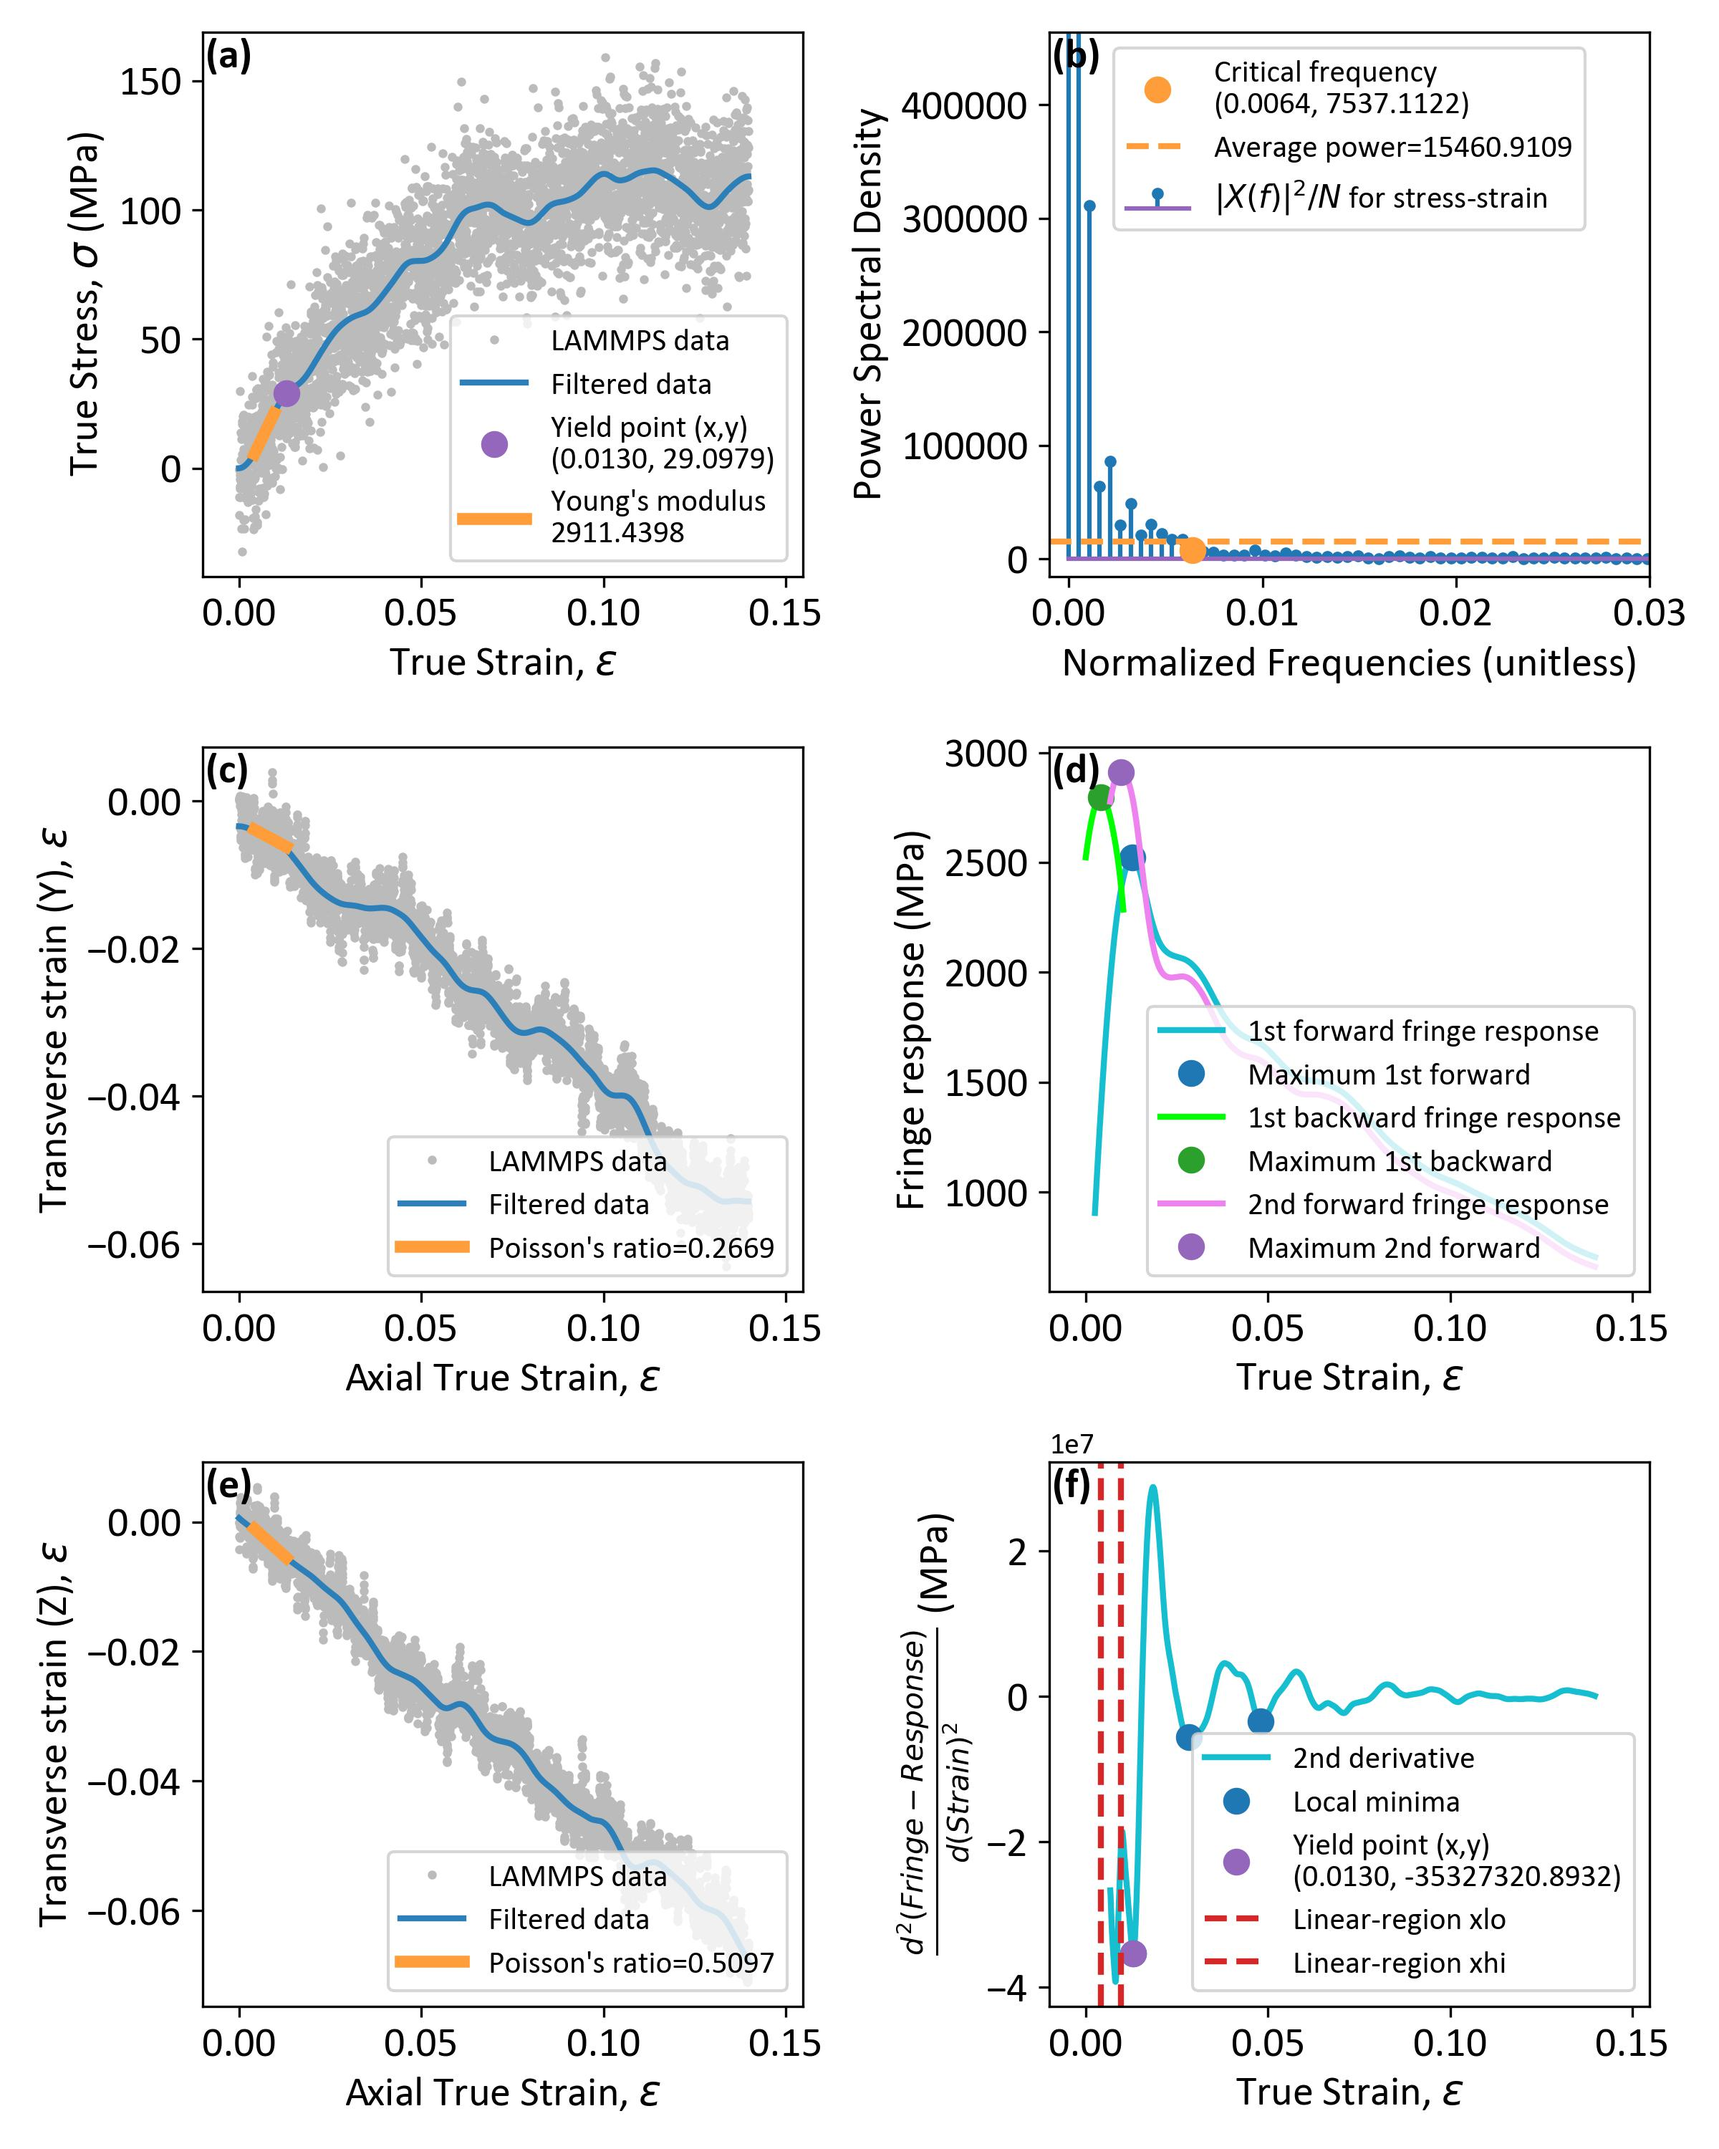
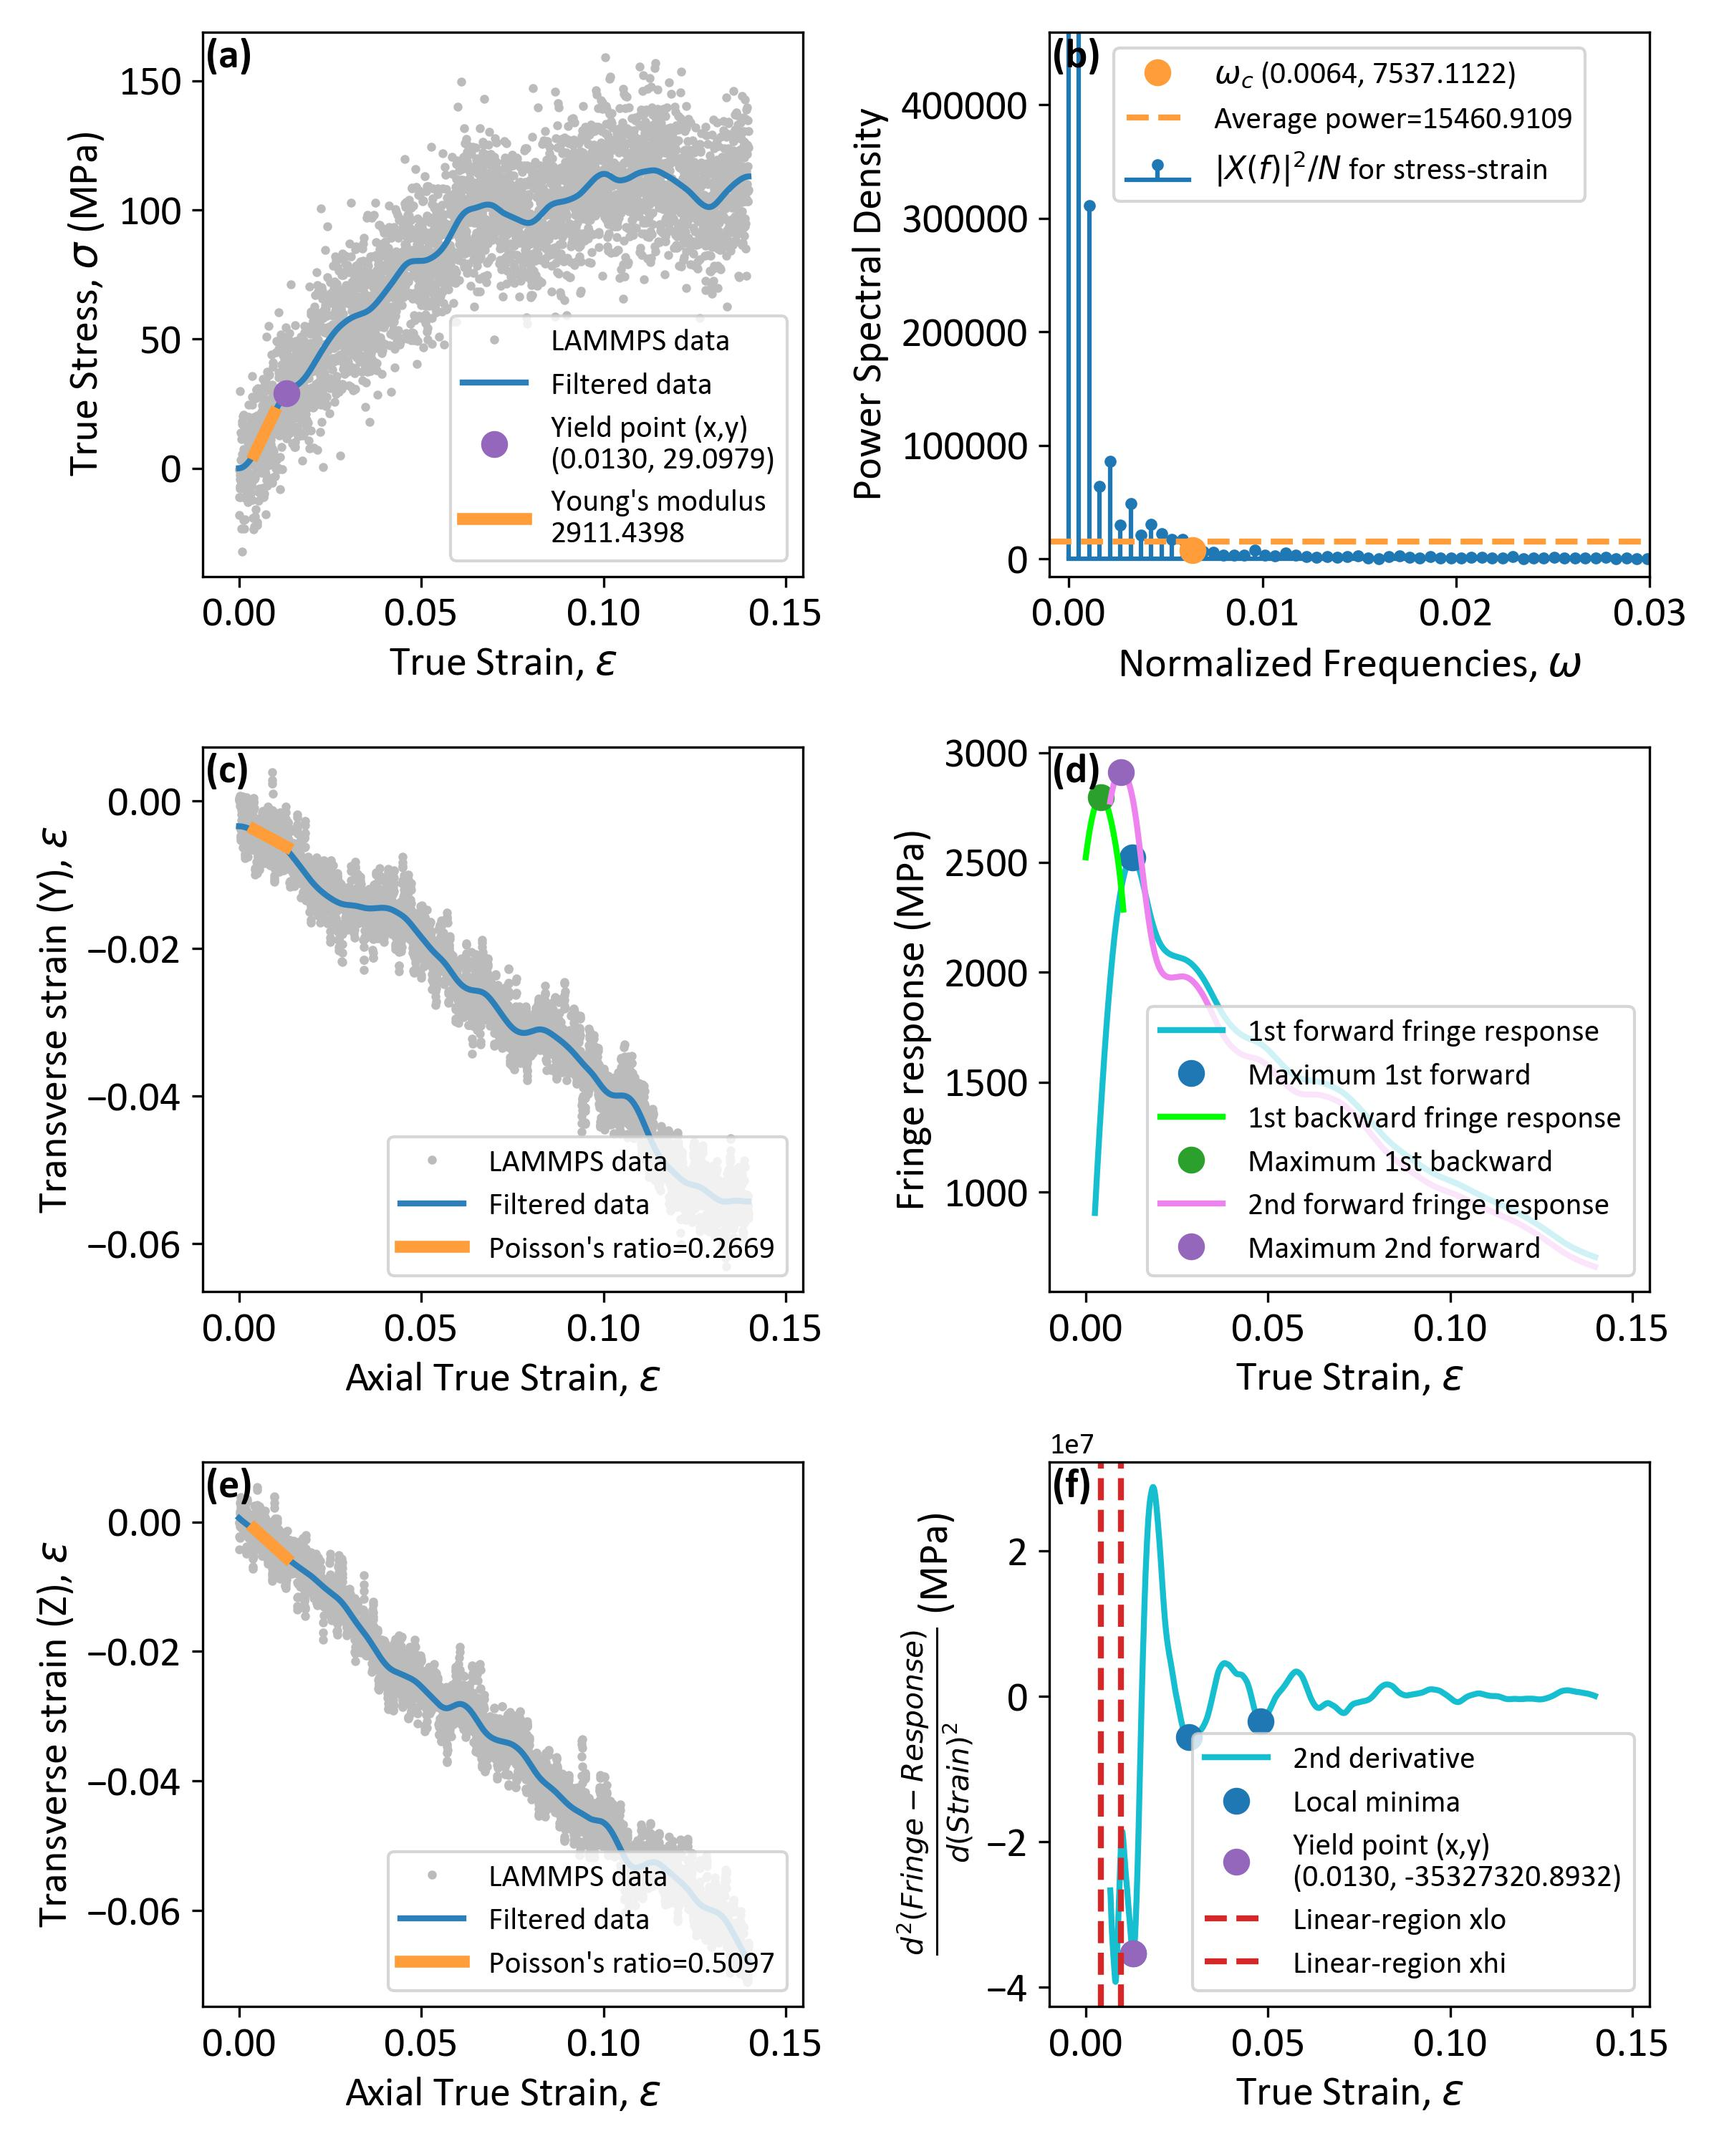
Adding Butterworth code

Changed region(s): [[0.6562, 0.031, 0.9062, 0.124], [0.7188, 0.279, 0.7812, 0.31], [0.6562, 0.279, 0.6875, 0.31]]

diff --git a/PSD_vs_ESD.py b/PSD_vs_ESD.py
@@ -365,11 +365,11 @@ if __name__ == "__main__":
     ax3.text(*label_rel_pos, '(c)', transform=ax3.transAxes, fontsize=fs, fontweight='bold', va='top', ha='left')
     
     if str(wn).startswith('op'):
-        ax2.stem(wns_stress, psd_stress, linefmt='tab:blue', markerfmt='.', label='$|X(f)|^2/N$ for stress-strain')
-        ax2.plot(wn_stress_psd, power_stress_psd, 'o', ms=8, color='#ff9d3aff', label='Critical frequency\n({:.4f}, {:.4f})'.format(wn_stress_psd, power_stress_psd))
+        ax2.stem(wns_stress, psd_stress, linefmt='tab:blue', basefmt='tab:blue', markerfmt='.', label='$|X(f)|^2/N$')
+        ax2.plot(wn_stress_psd, power_stress_psd, 'o', ms=8, color='#ff9d3aff', label='{}$_c$ ({:.3f}, {:.3f})'.format(r'$\omega$', wn_stress_psd, power_stress_psd))
         ax2.axhline(mean_stress_psd, color='#ff9d3aff', ls='--', lw=2, label='Average power={:.4f}'.format(mean_stress_psd))
-        ax2.legend(loc='upper center', bbox_to_anchor=(0.5, 1.0), fancybox=True, ncol=1, fontsize=0.75*fs)
-        ax2.set_xlabel('Normalized Frequencies (unitless)', fontsize=fs)
+        ax2.legend(loc='upper right', bbox_to_anchor=(1.0, 1.0), fancybox=True, ncol=1, fontsize=0.75*fs)
+        ax2.set_xlabel('Normalized Frequencies, {}'.format(r'$\omega$'), fontsize=fs)
         ax2.set_ylabel('Power Spectral Density (PSD)', fontsize=fs)
         ax2.tick_params(axis='both', which='major', labelsize=fs)
         ax2.set_xlim((-0.001, 0.03)) # Comment/uncomment for xlimits
@@ -377,11 +377,11 @@ if __name__ == "__main__":
         ax2.text(*label_rel_pos, '(b)', transform=ax2.transAxes, fontsize=fs, fontweight='bold', va='top', ha='left')
         
 
-        ax4.stem(wns_stress, esd_stress, linefmt='tab:blue', markerfmt='.', label='$|X(f)|^2/2T$ for stress-strain')
-        ax4.plot(wn_stress_esd, power_stress_esd, 'o', ms=8, color='#ff9d3aff', label='Critical frequency\n({:.4f}, {:.4f})'.format(wn_stress_esd, power_stress_esd))
-        ax4.axhline(mean_stress_esd, color='#ff9d3aff', ls='--', lw=2, label='Average energy={:.4f}'.format(mean_stress_esd))
-        ax4.legend(loc='upper center', bbox_to_anchor=(0.5, 1.0), fancybox=True, ncol=1, fontsize=0.75*fs)
-        ax4.set_xlabel('Normalized Frequencies (unitless)', fontsize=fs)
+        ax4.stem(wns_stress, esd_stress, linefmt='tab:blue', basefmt='tab:blue', markerfmt='.', label='$|X(f)|^2/2T$')
+        ax4.plot(wn_stress_esd, power_stress_esd, 'o', ms=8, color='#ff9d3aff', label='{}$_c$ ({:.3f}, {:.3f})'.format(r'$\omega$', wn_stress_esd, power_stress_esd))
+        ax4.axhline(mean_stress_esd, color='#ff9d3aff', ls='--', lw=2, label='Average energy={:.3f}'.format(mean_stress_esd))
+        ax4.legend(loc='upper right', bbox_to_anchor=(1.0, 1.0), fancybox=True, ncol=1, fontsize=0.75*fs)
+        ax4.set_xlabel('Normalized Frequencies, {}'.format(r'$\omega$'), fontsize=fs)
         ax4.set_ylabel('Energy Spectral Density (ESD)', fontsize=fs)
         ax4.tick_params(axis='both', which='major', labelsize=fs)
         ax4.set_xlim((-0.001, 0.03)) # Comment/uncomment for xlimits

diff --git a/example2.py b/example2.py
@@ -389,11 +389,11 @@ if __name__ == "__main__":
     ax5.text(*label_rel_pos, '(e)', transform=ax5.transAxes, fontsize=fs, fontweight='bold', va='top', ha='left')
     
     if str(wn).startswith('op'):
-        ax2.stem(wns_stress, psd_stress, linefmt='tab:blue', markerfmt='.', label='$|X(f)|^2/N$ for stress-strain')
-        ax2.plot(wn_stress, power_stress, 'o', ms=8, color='#ff9d3aff', label='Critical frequency\n({:.4f}, {:.4f})'.format(wn_stress, power_stress))
+        ax2.stem(wns_stress, psd_stress, linefmt='tab:blue', basefmt='tab:blue', markerfmt='.', label='$|X(f)|^2/N$ for stress-strain')
+        ax2.plot(wn_stress, power_stress, 'o', ms=8, color='#ff9d3aff', label='{}$_c$ ({:.4f}, {:.4f})'.format(r'$\omega$', wn_stress, power_stress))
         ax2.axhline(mean_stress_psd, color='#ff9d3aff', ls='--', lw=2, label='Average power={:.4f}'.format(mean_stress_psd))
         ax2.legend(loc='upper center', bbox_to_anchor=(0.5, 1.0), fancybox=True, ncol=1, fontsize=0.75*fs)
-        ax2.set_xlabel('Normalized Frequencies (unitless)', fontsize=fs)
+        ax2.set_xlabel('Normalized Frequencies, {}'.format(r'$\omega$'), fontsize=fs)
         ax2.set_ylabel('Power Spectral Density', fontsize=fs)
         ax2.tick_params(axis='both', which='major', labelsize=fs)
         ax2.set_xlim((-0.001, 0.03)) # Comment/uncomment for xlimits

diff --git a/example3.py b/example3.py
@@ -390,11 +390,11 @@ if __name__ == "__main__":
     ax5.text(*label_rel_pos, '(e)', transform=ax5.transAxes, fontsize=fs, fontweight='bold', va='top', ha='left')
     
     if str(wn).startswith('op'):
-        ax2.stem(wns_stress, psd_stress, linefmt='tab:blue', markerfmt='.', label='$|X(f)|^2/N$ for stress-strain')
-        ax2.plot(wn_stress, power_stress, 'o', ms=8, color='#ff9d3aff', label='Critical frequency\n({:.4f}, {:.4f})'.format(wn_stress, power_stress))
+        ax2.stem(wns_stress, psd_stress, linefmt='tab:blue', basefmt='tab:blue', markerfmt='.', label='$|X(f)|^2/N$ for stress-strain')
+        ax2.plot(wn_stress, power_stress, 'o', ms=8, color='#ff9d3aff', label='{}$_c$ ({:.4f}, {:.4f})'.format(r'$\omega$', wn_stress, power_stress))
         ax2.axhline(mean_stress_psd, color='#ff9d3aff', ls='--', lw=2, label='Average power={:.4f}'.format(mean_stress_psd))
         ax2.legend(loc='upper center', bbox_to_anchor=(0.5, 1.0), fancybox=True, ncol=1, fontsize=0.75*fs)
-        ax2.set_xlabel('Normalized Frequencies (unitless)', fontsize=fs)
+        ax2.set_xlabel('Normalized Frequencies, {}'.format(r'$\omega$'), fontsize=fs)
         ax2.set_ylabel('Power Spectral Density', fontsize=fs)
         ax2.tick_params(axis='both', which='major', labelsize=fs)
         ax2.set_xlim((-0.001, 0.03)) # Comment/uncomment for xlimits

diff --git a/example4.py b/example4.py
@@ -390,11 +390,11 @@ if __name__ == "__main__":
     ax5.text(*label_rel_pos, '(e)', transform=ax5.transAxes, fontsize=fs, fontweight='bold', va='top', ha='left')
     
     if str(wn).startswith('op'):
-        ax2.stem(wns_stress, psd_stress, linefmt='tab:blue', markerfmt='.', label='$|X(f)|^2/N$ for stress-strain')
-        ax2.plot(wn_stress, power_stress, 'o', ms=8, color='#ff9d3aff', label='Critical frequency\n({:.4f}, {:.4f})'.format(wn_stress, power_stress))
+        ax2.stem(wns_stress, psd_stress, linefmt='tab:blue', basefmt='tab:blue', markerfmt='.', label='$|X(f)|^2/N$ for stress-strain')
+        ax2.plot(wn_stress, power_stress, 'o', ms=8, color='#ff9d3aff', label='{}$_c$ ({:.4f}, {:.4f})'.format(r'$\omega$', wn_stress, power_stress))
         ax2.axhline(mean_stress_psd, color='#ff9d3aff', ls='--', lw=2, label='Average power={:.4f}'.format(mean_stress_psd))
         ax2.legend(loc='upper center', bbox_to_anchor=(0.5, 1.0), fancybox=True, ncol=1, fontsize=0.75*fs)
-        ax2.set_xlabel('Normalized Frequencies (unitless)', fontsize=fs)
+        ax2.set_xlabel('Normalized Frequencies, {}'.format(r'$\omega$'), fontsize=fs)
         ax2.set_ylabel('Power Spectral Density', fontsize=fs)
         ax2.tick_params(axis='both', which='major', labelsize=fs)
         ax2.set_xlim((-0.001, 0.03)) # Comment/uncomment for xlimits

diff --git a/example1.py b/example1.py
@@ -389,11 +389,11 @@ if __name__ == "__main__":
     ax5.text(*label_rel_pos, '(e)', transform=ax5.transAxes, fontsize=fs, fontweight='bold', va='top', ha='left')
     
     if str(wn).startswith('op'):
-        ax2.stem(wns_stress, psd_stress, linefmt='tab:blue', markerfmt='.', label='$|X(f)|^2/N$ for stress-strain')
+        ax2.stem(wns_stress, psd_stress, linefmt='tab:blue', basefmt='tab:blue', markerfmt='.', label='$|X(f)|^2/N$ for stress-strain')
         ax2.plot(wn_stress, power_stress, 'o', ms=8, color='#ff9d3aff', label='{}$_c$ ({:.4f}, {:.4f})'.format(r'$\omega$', wn_stress, power_stress))
         ax2.axhline(mean_stress_psd, color='#ff9d3aff', ls='--', lw=2, label='Average power={:.4f}'.format(mean_stress_psd))
         ax2.legend(loc='upper center', bbox_to_anchor=(0.5, 1.0), fancybox=True, ncol=1, fontsize=0.75*fs)
-        ax2.set_xlabel('Normalized Frequencies (unitless)', fontsize=fs)
+        ax2.set_xlabel('Normalized Frequencies, {}'.format(r'$\omega$'), fontsize=fs)
         ax2.set_ylabel('Power Spectral Density', fontsize=fs)
         ax2.tick_params(axis='both', which='major', labelsize=fs)
         ax2.set_xlim((-0.001, 0.03)) # Comment/uncomment for xlimits
